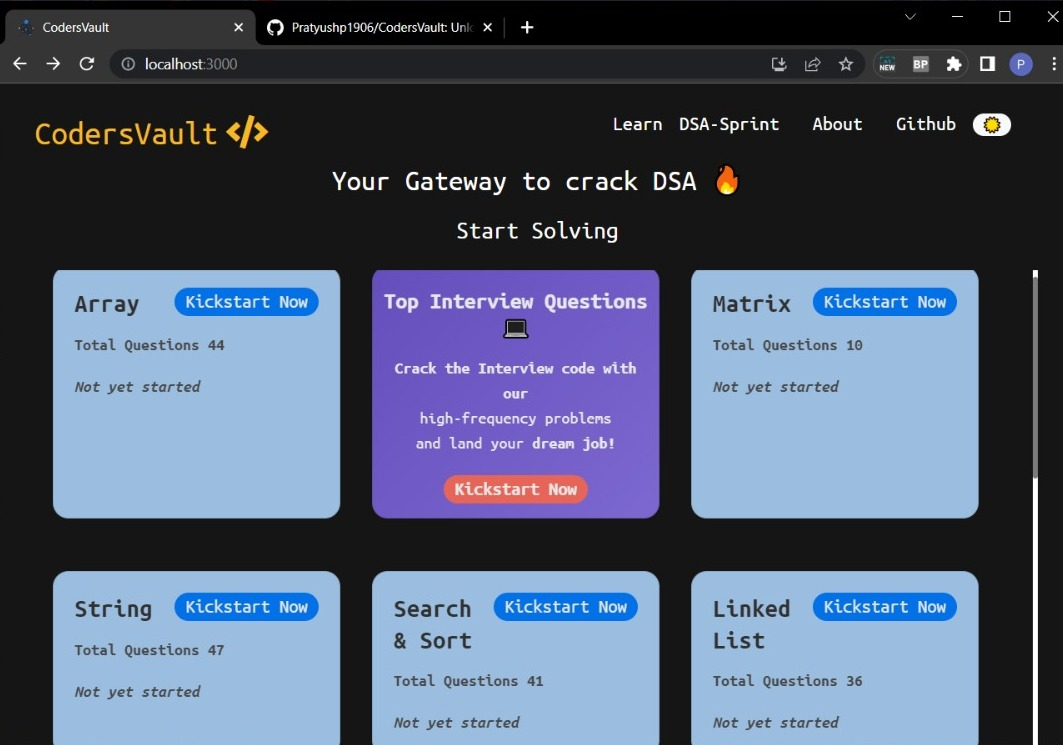
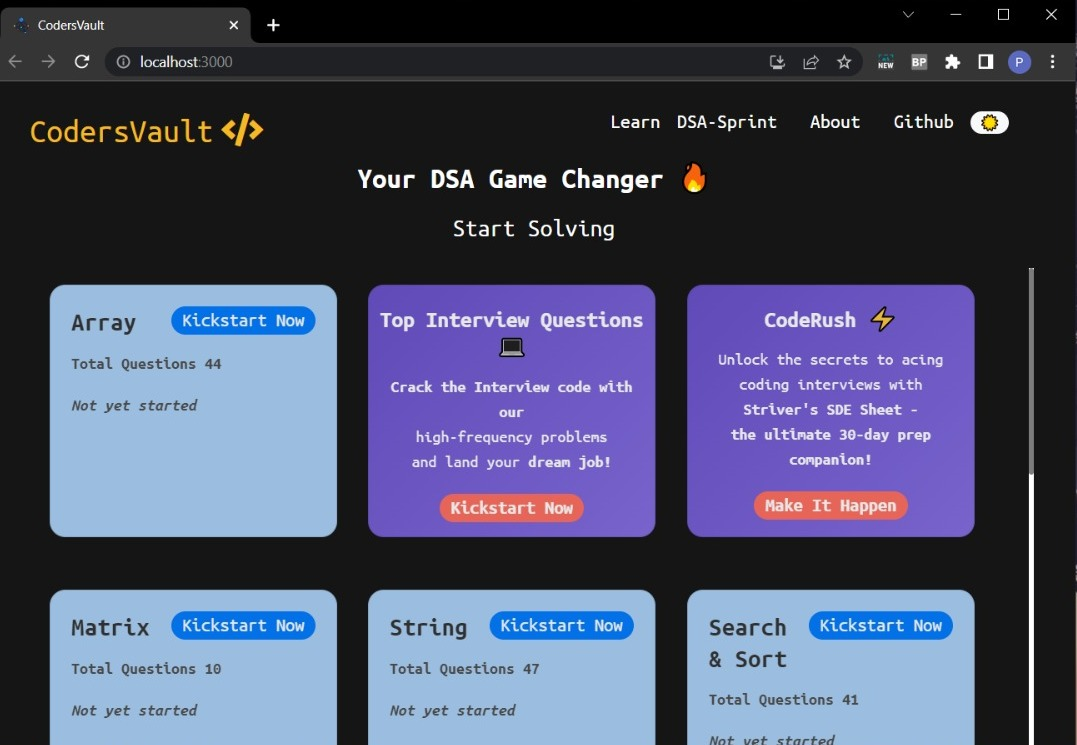
Added 30 days preparation topic card

diff --git a/src/components/TopicCard/TopicCard.js b/src/components/TopicCard/TopicCard.js
@@ -134,6 +134,58 @@ export default function TopicCard({ questionData }) {
     }
   });
 
+  const placementPrepTile = (
+    <Fade duration={500 + 1 * 50} key={-1}>
+      <div className="col mb-4">
+        <Link
+          to={{
+            pathname:
+              "https://takeuforward.org/interviews/strivers-sde-sheet-top-coding-interview-problems/",
+          }}
+          target="_blank"
+          style={{ textDecoration: "none" }}
+        >
+          <Card
+            className={`mb-3 promotional-card hvr-grow ${dark ? "darkCard" : ""
+              }`}
+          >
+            <Card.Body>
+              <Row style={{ justifyContent: "center" }}>
+                <Card.Title className="promotional-heading">
+                  {" "}
+                  {"CodeRush ⚡"}{" "}
+                </Card.Title>
+              </Row>
+              <Card.Text className="promotional-subtext">
+                Unlock the secrets to acing coding interviews with
+                <br></br>
+                <span style={{ fontWeight: 700 }}>
+                  Striver's SDE Sheet -
+                </span>
+                <br></br>
+
+                <span style={{ fontWeight: 700 }}>the ultimate 30-day prep companion!</span>
+              </Card.Text>
+              <h4 className="promotional-cta mb-1">
+                <Badge
+                  pill
+                  variant="primary"
+                  style={{
+                    fontWeight: "700",
+                    cursor: "pointer",
+                    backgroundColor: "#FF6D60",
+                  }}
+                >
+                  Make It Happen
+                </Badge>
+              </h4>
+            </Card.Body>
+          </Card>
+        </Link>
+      </div>
+    </Fade>
+  );
+
   const promotionTile = (
     <Fade duration={500 + 1 * 50} key={-1}>
       <div className="col mb-4">
@@ -187,14 +239,18 @@ export default function TopicCard({ questionData }) {
   );
 
   topicCard.splice(1, 0, promotionTile);
+  topicCard.splice(2, 0, placementPrepTile);
 
   return (
     <>
       <h3 className="app-heading2 text-center mb-3">
-        Your Gateway to crack DSA{" "}
-        <span role="img" aria-label="fire">
-          🔥
+        <span style={{ fontWeight: 700 }}>
+          Your DSA Game Changer{" "}
+          <span role="img" aria-label="fire">
+            🔥
+          </span>
         </span>
+
       </h3>
 
       <h4 className="text-center mb-4">
